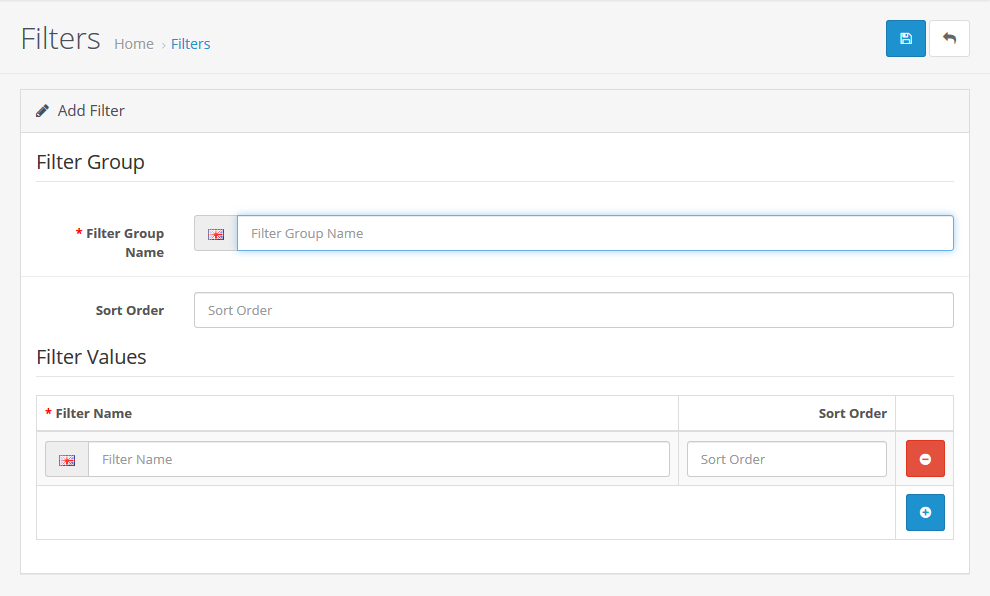
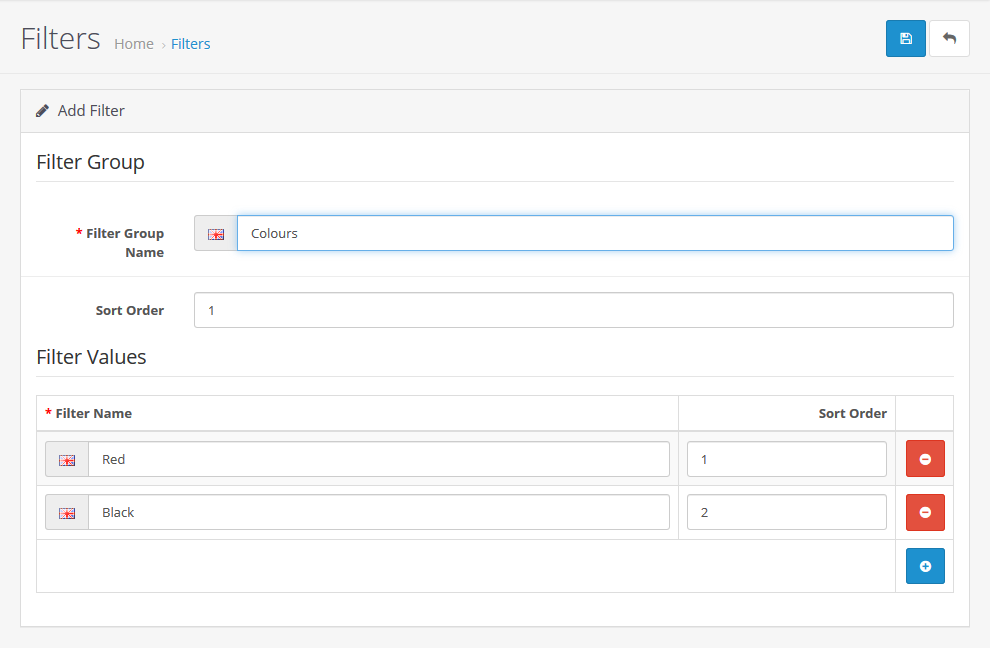
zh-hk filter updated

diff --git a/docs/zh-hk/catalog/filter.html b/docs/zh-hk/catalog/filter.html
@@ -40,3 +40,18 @@ permalink: zh-hk/catalog/filter/
 		<td colspan="2" class="hints">* 為必填項目</td>
 	</tr>
 </tbody></table>
+
+
+<h3>前往產品類別頁面</h3>
+<p class="text-center"><img src="image/catalog/filter/category-filters.png" alt="Category Filters" class="img-thumbnail" /></p>
+<p>假設現在我們在 Desktop 的類別中進行編輯，在 Data 標籤中找到 Filters 並將兩個顏色項目都加到這個類別內然後儲存修改。</p>
+
+
+<h3>前往產品頁面</h3>
+<p class="text-center"><img src="image/catalog/filter/product-filters.png" alt="Product Filters" class="img-thumbnail" /></p>
+<p>點擊貨品中Link標籤，於Filter的欄位中可以自動搜找到最新加入的項目，我們先點選「Red」並儲存。</p>
+<p>完成後，在啟用了篩選功能模組的狀態下便可以看到該產品類別會有相關項目出現，有關如何啟用模組到店面，詳情請參閱<a href="zh-hk/system/design/layout/">頁面設計</a>。</p>
+
+<h3>店面效果</h3>
+<p>假設篩選的模組建立在產品類喇的頂部，這樣到店面的 <strong>Desktop</strong> 中便可以看見以下的效果：</p>
+<p class="text-center"><img src="image/catalog/filter/store-front-desktop-refine-search.png" alt="Store Front - Desktop Refine Search" class="img-thumbnail" /></p>
